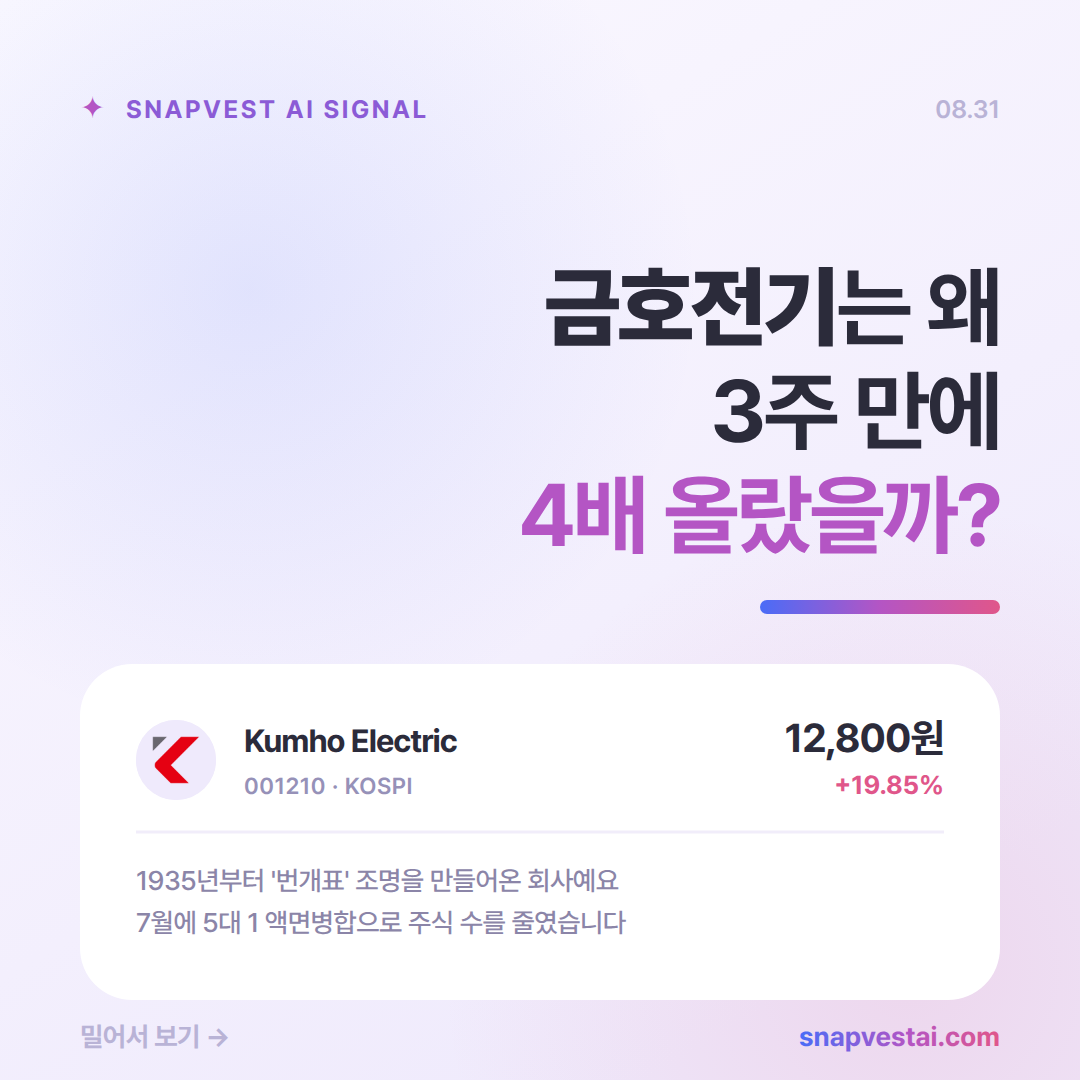
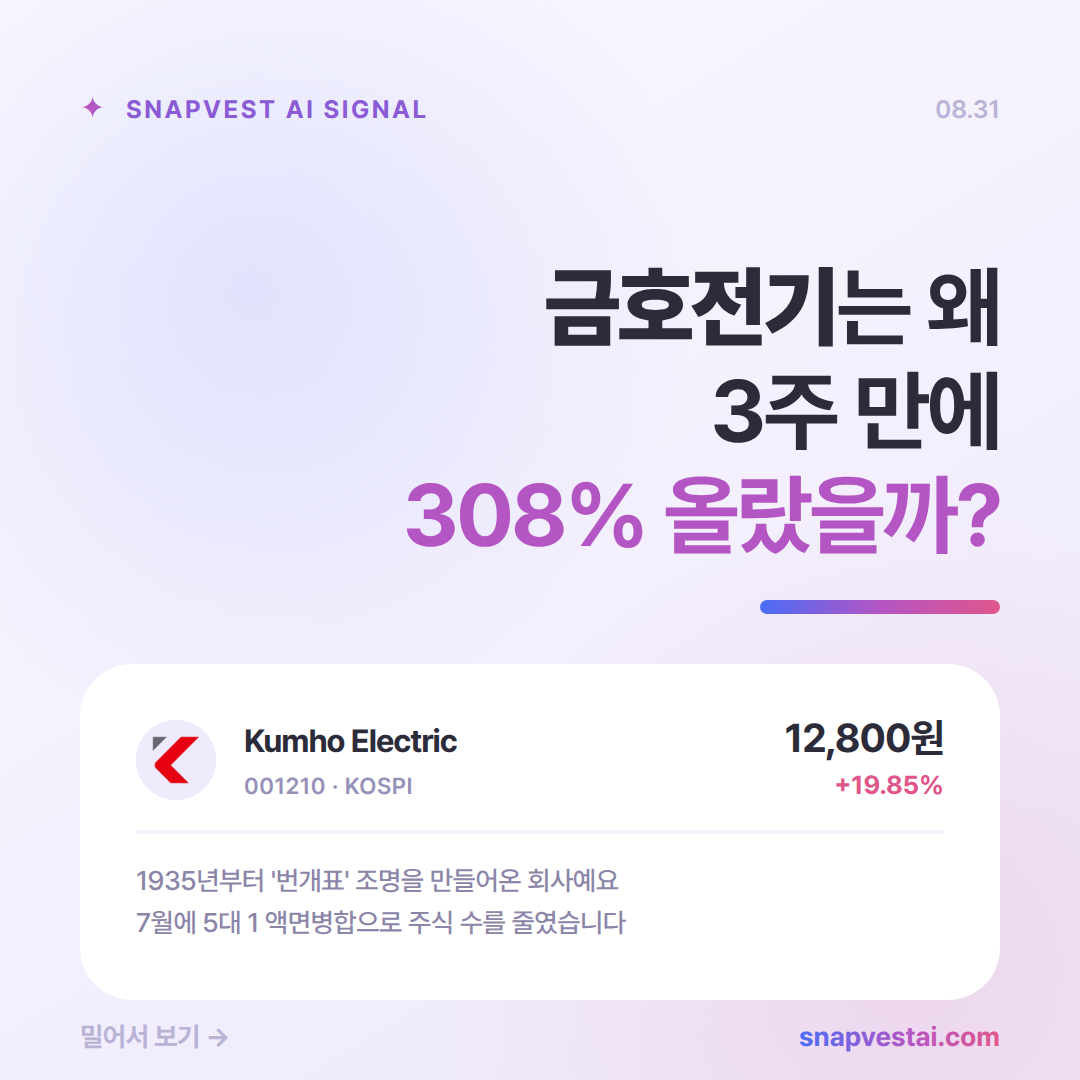
cardnews: 금호전기 표지를 '4배' 에서 '308%' 로
3,140원 -> 12,800원 = 4.08배 = +307.6%. 배수와 상승률이 1배 차이라
'4배'를 '400%' 로 읽으면 틀린다. 표지·글귀·블로그 제목을 상승률 표기로 통일.
52주 저점(2,325원) 기준이면 +451% 지만 3주 구간이 아니고 저점 날짜가
확인 안 돼 쓰지 않았다 (SOURCES.md 에 참고값으로만 기록).

Claude-Session: https://claude.ai/code/session_01RMiKh4knUhoRQtbEt8tjeA

Changed region(s): [[0.3667, 0.4278, 0.6111, 0.5194]]

diff --git a/cardnews/sns.md b/cardnews/sns.md
@@ -7,7 +7,7 @@
 오늘 다루어볼 종목은 금호전기(001210)입니다.
 
 8월 10일 3,140원. 8월 31일 12,800원.
-3주 만에 4배입니다.
+3주 만에 308%입니다.
 
 이 회사는 1935년에 시작한 조명 회사입니다.
 '번개표' 형광등을 만들었고, 올해가 창립 90주년입니다.
@@ -55,7 +55,7 @@
 2024년 매출 532억 원에 영업손실 50억 원. 수년째 적자입니다.
 
 그런데 8월 10일 3,140원이던 주가가 8월 31일 12,800원이 됐어요.
-실적은 그대로인데, 3주 만에 4배입니다 ⬇
+실적은 그대로인데, 3주 만에 308%입니다 ⬇
 ```
 
 ### 안 B · 수급형
@@ -66,7 +66,7 @@
 이 회사 발행주식은 1,237만 주입니다. 있는 주식이 하루에 두 번 손바뀜했다는 뜻이에요.
 
 7월에 5대 1 액면병합을 해서 주식 수가 5분의 1로 줄어 있었습니다.
-그 위에서 3주 만에 4배가 났습니다 ⬇
+그 위에서 3주 만에 308%가 났습니다 ⬇
 ```
 
 ### 안 C · 테마형
@@ -77,7 +77,7 @@
 이 회사는 조명을 만듭니다. 형광등, LED램프, 유도등이요.
 
 1984년에 금호그룹에서 분리돼 지금은 자본관계도 없습니다. 이름만 남았어요.
-그런데 그 이름으로 3주 만에 4배가 났습니다 ⬇
+그런데 그 이름으로 3주 만에 308%가 났습니다 ⬇
 ```
 
 태그: `국내주식` 하나만

diff --git a/cardnews/blog.md b/cardnews/blog.md
@@ -6,9 +6,9 @@
 
 | # | 제목 | 노림수 |
 |---|---|---|
-| **1** | 금호전기 주가 3주 만에 4배, 액면병합이 만든 1237만 주 | 앞 7글자가 `금호전기 주가` · **추천** |
+| **1** | 금호전기 주가 3주 만에 308%, 액면병합이 만든 1237만 주 | 앞 7글자가 `금호전기 주가` · **추천** |
 | 2 | 금호전기 급등 이유, 호남 반도체 클러스터와 무슨 상관일까 | 연결고리 없음을 짚는 게 이 글의 차별점 |
-| 3 | 90년 된 조명 회사 금호전기가 3주 만에 4배 오른 이유 | 모순형 |
+| 3 | 90년 된 조명 회사 금호전기가 3주 만에 308% 오른 이유 | 모순형 |
 | 4 | 금호전기 액면병합 정리, 6188만 주가 1237만 주가 됐습니다 | 교육형. 검색으로 오래 남는다 |
 
 ## 이번 회차 구성 메모

diff --git a/cardnews/SOURCES.md b/cardnews/SOURCES.md
@@ -60,7 +60,8 @@
 |---|---|---|
 | 시가총액 | 1,583억 원 | 12,800원 × 12,370,000주 = 1,583억 |
 | 손바뀜 | 발행주식 2배 | 25,462,319 ÷ 12,370,000 = 2.06배 |
-| 3주 상승 | 약 4배 | 12,800 ÷ 3,140(8/10) = 4.08배 |
+| 3주 상승 | **+308%** | 12,800 ÷ 3,140(8/10) = 4.08배 → +307.6% |
+| (참고) 52주 저점 대비 | +451% | 12,800 ÷ 2,325 = 5.51배. **표지에는 안 씀** — 3주 구간이 아니고 저점 날짜가 확인 안 된다 |
 | 8/31 장중 고가 | 약 13,713원 | 10,680 × 1.284 (장중 +28.4%) |
 | 52주 위치 | **최고가 경신** | 7/31 기준 52주 최고 8,140원을 12,800원이 넘어섰다 |
 
